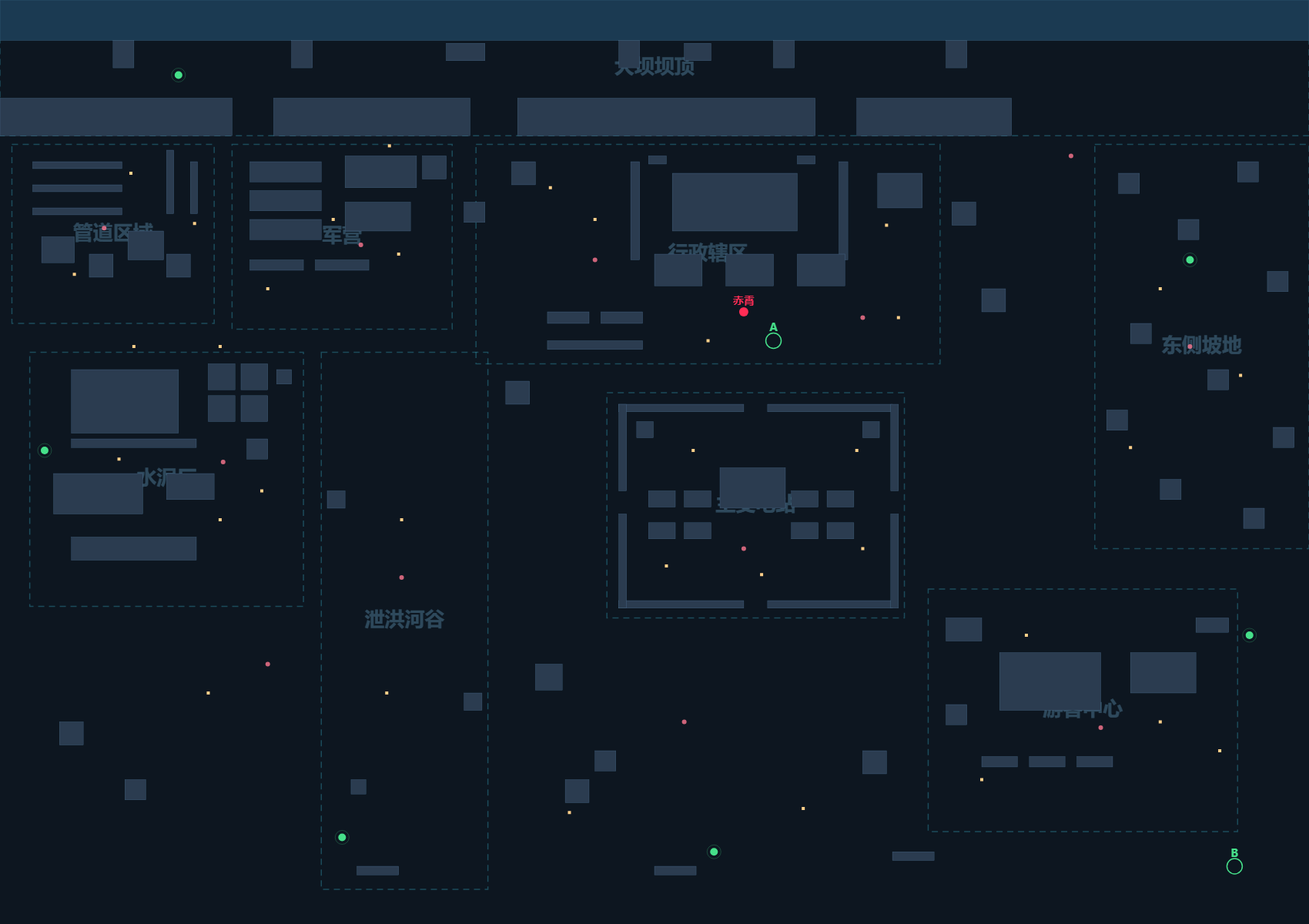
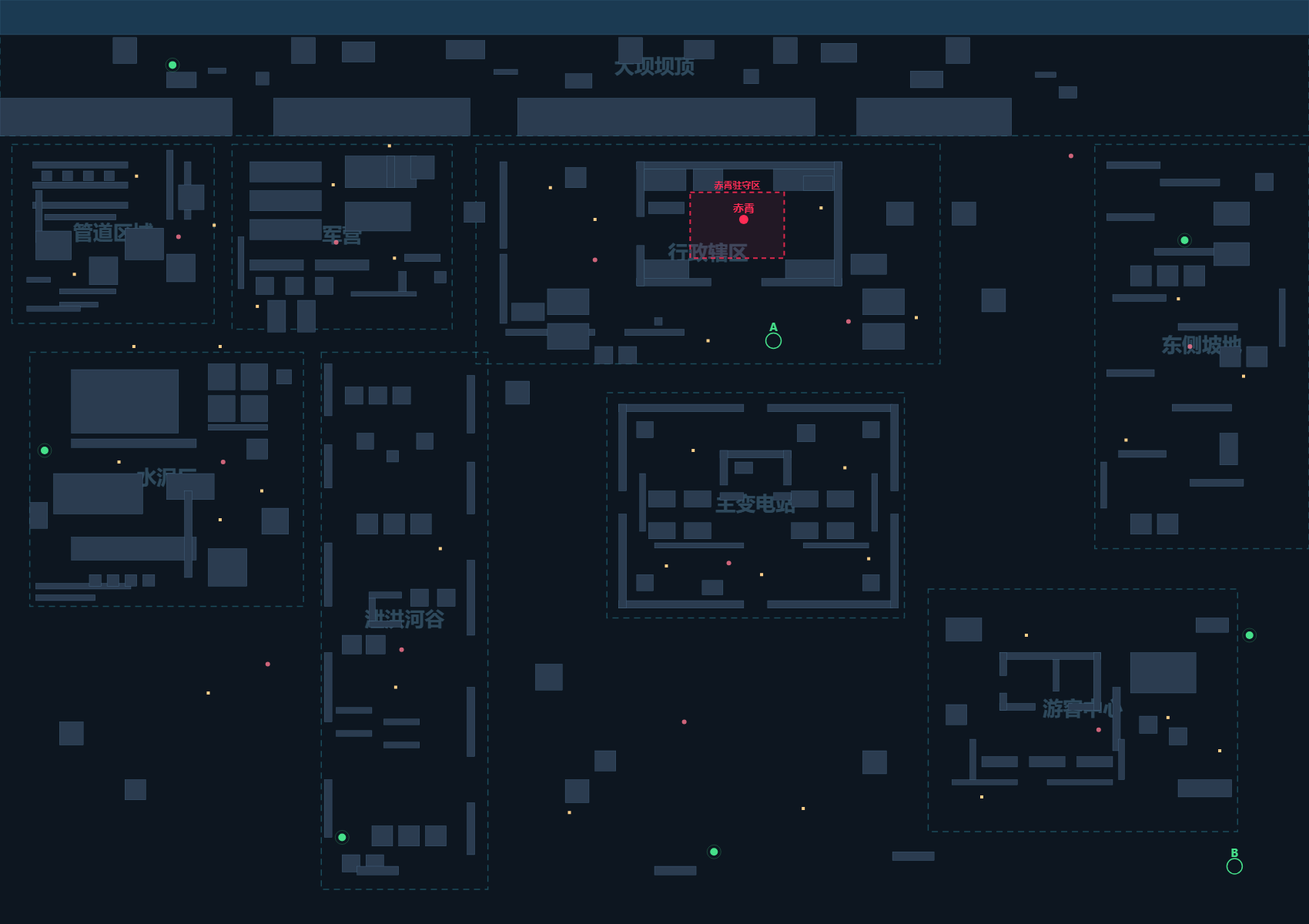
零号大坝：赤霄进驻行政楼大厅 + 各地区地形加密。①新地图字段 bossZone（≥140×140，normalizeMap 清洗/applyMapData/buildMapData）：BOSS 初始布点与增援波一律刷在驻守区内，移动硬锁区内（击退/翻滚推不出去），拴绳 home 也在区内——想打赤霄必须进楼；②行政楼改可进入围合建筑：外墙四面门洞（南中门170/西侧门100/东墙封死）、北侧三间办公室、南侧两间服务间、大厅西侧接待台与东侧隔间，大厅中央即赤霄驻守区(2320,666,316,228)，楼内驻 2 守卫；③九地区地形加密（障碍 120→237 块）：管道区加管墩/栈桥/储罐/管

diff --git a/index.html b/index.html
@@ -4766,6 +4766,7 @@ const G = {
   loiters: [],      // 乌鲁鲁的巡飞弹（含分裂出来的子炸弹）
   units: [],        // 地图里布置的敌人（兵种 + 驻地）
   bossSpawned: false, // 本局是否已有 BOSS（避免增援重复刷）
+  bossZone: null,     // BOSS 驻守区（地图字段）：有值时赤霄只在矩形内活动，增援也回这里
   bossBarBottom: false, // BOSS 血条是否临时挪到屏幕底部
   directorMarkT: 0,   // 安全总监标记干员位置的剩余秒数（>0 时全哈夫克共享你的位置）
   toasts: [],
@@ -5047,7 +5048,7 @@ const MAP_VERSION = 1;
    · 水泥厂（西）· 泄洪河谷（纵贯西南）· 主变电站（中央）· 游客中心（东南）· 东侧坡地
    —— 与 maps/zero-dam.json 完全一致，可在编辑器里导入后继续改
    ══════════════════════════════════════════════════════════ */
-const BUILTIN_MAPS = {'zero-dam': ({"format":"neonpurge-map","version":1,"name":"零号大坝·普通","w":4400,"h":3200,"spawns":[{"x":600,"y":260},{"x":150,"y":1560},{"x":1150,"y":2900},{"x":4000,"y":900},{"x":4200,"y":2200},{"x":2400,"y":2950}],"obstacles":[{"x":0,"y":0,"w":4400,"h":140},{"x":380,"y":140,"w":70,"h":95},{"x":980,"y":140,"w":70,"h":95},{"x":2080,"y":140,"w":70,"h":95},{"x":2600,"y":140,"w":70,"h":95},{"x":3180,"y":140,"w":70,"h":95},{"x":1500,"y":150,"w":130,"h":60},{"x":2300,"y":150,"w":90,"h":60},{"x":0,"y":340,"w":780,"h":130},{"x":920,"y":340,"w":660,"h":130},{"x":1740,"y":340,"w":1000,"h":130},{"x":2880,"y":340,"w":520,"h":130},{"x":110,"y":560,"w":300,"h":24},{"x":110,"y":640,"w":300,"h":24},{"x":110,"y":720,"w":300,"h":24},{"x":560,"y":520,"w":24,"h":220},{"x":640,"y":560,"w":24,"h":180},{"x":140,"y":820,"w":110,"h":90},{"x":430,"y":800,"w":120,"h":100},{"x":560,"y":880,"w":80,"h":80},{"x":300,"y":880,"w":80,"h":80},{"x":840,"y":560,"w":240,"h":70},{"x":840,"y":660,"w":240,"h":70},{"x":840,"y":760,"w":240,"h":70},{"x":1160,"y":540,"w":240,"h":110},{"x":1160,"y":700,"w":220,"h":100},{"x":840,"y":900,"w":180,"h":36},{"x":1060,"y":900,"w":180,"h":36},{"x":1420,"y":540,"w":80,"h":80},{"x":2260,"y":600,"w":420,"h":200},{"x":2120,"y":560,"w":30,"h":340},{"x":2820,"y":560,"w":30,"h":340},{"x":2180,"y":540,"w":60,"h":28},{"x":2680,"y":540,"w":60,"h":28},{"x":2200,"y":880,"w":160,"h":110},{"x":2440,"y":880,"w":160,"h":110},{"x":2680,"y":880,"w":160,"h":110},{"x":1840,"y":1080,"w":140,"h":40},{"x":2020,"y":1080,"w":140,"h":40},{"x":1720,"y":560,"w":80,"h":80},{"x":2950,"y":600,"w":150,"h":120},{"x":1840,"y":1180,"w":320,"h":30},{"x":240,"y":1280,"w":360,"h":220},{"x":700,"y":1260,"w":90,"h":90},{"x":810,"y":1260,"w":90,"h":90},{"x":700,"y":1370,"w":90,"h":90},{"x":810,"y":1370,"w":90,"h":90},{"x":240,"y":1520,"w":420,"h":30},{"x":180,"y":1640,"w":300,"h":140},{"x":560,"y":1640,"w":160,"h":90},{"x":240,"y":1860,"w":420,"h":80},{"x":830,"y":1520,"w":70,"h":70},{"x":930,"y":1280,"w":50,"h":50},{"x":1100,"y":1700,"w":60,"h":60},{"x":1560,"y":2400,"w":60,"h":60},{"x":1180,"y":2700,"w":50,"h":50},{"x":2080,"y":1400,"w":420,"h":26},{"x":2580,"y":1400,"w":420,"h":26},{"x":2080,"y":2080,"w":420,"h":26},{"x":2580,"y":2080,"w":420,"h":26},{"x":2080,"y":1400,"w":26,"h":300},{"x":2080,"y":1780,"w":26,"h":326},{"x":2994,"y":1400,"w":26,"h":300},{"x":2994,"y":1780,"w":26,"h":326},{"x":2420,"y":1620,"w":220,"h":140},{"x":2180,"y":1700,"w":90,"h":56},{"x":2300,"y":1700,"w":90,"h":56},{"x":2660,"y":1700,"w":90,"h":56},{"x":2780,"y":1700,"w":90,"h":56},{"x":2180,"y":1810,"w":90,"h":56},{"x":2300,"y":1810,"w":90,"h":56},{"x":2660,"y":1810,"w":90,"h":56},{"x":2780,"y":1810,"w":90,"h":56},{"x":2140,"y":1460,"w":56,"h":56},{"x":2900,"y":1460,"w":56,"h":56},{"x":3360,"y":2260,"w":340,"h":200},{"x":3800,"y":2260,"w":220,"h":140},{"x":3180,"y":2140,"w":120,"h":80},{"x":3300,"y":2620,"w":120,"h":36},{"x":3460,"y":2620,"w":120,"h":36},{"x":3620,"y":2620,"w":120,"h":36},{"x":4020,"y":2140,"w":110,"h":50},{"x":3180,"y":2440,"w":70,"h":70},{"x":3760,"y":600,"w":70,"h":70},{"x":3960,"y":760,"w":70,"h":70},{"x":4160,"y":560,"w":70,"h":70},{"x":4260,"y":940,"w":70,"h":70},{"x":3800,"y":1120,"w":70,"h":70},{"x":4060,"y":1280,"w":70,"h":70},{"x":4280,"y":1480,"w":70,"h":70},{"x":3720,"y":1420,"w":70,"h":70},{"x":3900,"y":1660,"w":70,"h":70},{"x":4180,"y":1760,"w":70,"h":70},{"x":1900,"y":2700,"w":80,"h":80},{"x":2900,"y":2600,"w":80,"h":80},{"x":200,"y":2500,"w":80,"h":80},{"x":420,"y":2700,"w":70,"h":70},{"x":1800,"y":2300,"w":90,"h":90},{"x":2000,"y":2600,"w":70,"h":70},{"x":1700,"y":1320,"w":80,"h":80},{"x":3200,"y":700,"w":80,"h":80},{"x":3300,"y":1000,"w":80,"h":80},{"x":1560,"y":700,"w":70,"h":70},{"x":1200,"y":3000,"w":140,"h":30},{"x":2200,"y":3000,"w":140,"h":30},{"x":3000,"y":2950,"w":140,"h":30}],"crates":[{"x":440,"y":600},{"x":654,"y":774},{"x":250,"y":950},{"x":1120,"y":760},{"x":1340,"y":880},{"x":1309,"y":505},{"x":900,"y":1000},{"x":2000,"y":760},{"x":2980,"y":780},{"x":2380,"y":1180},{"x":1850,"y":650},{"x":3020,"y":1100},{"x":450,"y":1200},{"x":740,"y":1200},{"x":400,"y":1590},{"x":740,"y":1800},{"x":880,"y":1700},{"x":1350,"y":1800},{"x":1300,"y":2400},{"x":2330,"y":1560},{"x":2560,"y":1990},{"x":2900,"y":1900},{"x":2240,"y":1960},{"x":2880,"y":1560},{"x":3450,"y":2200},{"x":3900,"y":2500},{"x":3300,"y":2700},{"x":4100,"y":2600},{"x":3900,"y":1000},{"x":4170,"y":1300},{"x":3800,"y":1550},{"x":1914,"y":2814},{"x":2700,"y":2800},{"x":700,"y":2400}],"extracts":[{"x":2600,"y":1180,"name":"A","mode":"hold"},{"x":4150,"y":3000,"name":"B","mode":"hold"}],"nests":[{"x":350,"y":790},{"x":1213,"y":848},{"x":2000,"y":900},{"x":750,"y":1600},{"x":1350,"y":2000},{"x":2500,"y":1900},{"x":3700,"y":2520},{"x":4000,"y":1200},{"x":2300,"y":2500},{"x":3600,"y":540},{"x":900,"y":2300},{"x":2900,"y":1100}],"units":[{"x":290,"y":697,"type":"runner"},{"x":580,"y":850,"type":"runner"},{"x":480,"y":700,"type":"shooter"},{"x":822,"y":745,"type":"runner"},{"x":1100,"y":850,"type":"shooter"},{"x":1400,"y":850,"type":"brute"},{"x":1450,"y":700,"type":"sniper"},{"x":979,"y":539,"type":"runner"},{"x":2200,"y":700,"type":"runner"},{"x":2900,"y":900,"type":"runner"},{"x":2400,"y":830,"type":"shooter"},{"x":2650,"y":980,"type":"shooter"},{"x":2350,"y":1050,"type":"brute"},{"x":2500,"y":1080,"type":"boss"},{"x":2050,"y":620,"type":"sniper"},{"x":2923,"y":681,"type":"runner"},{"x":350,"y":1600,"type":"runner"},{"x":630,"y":1440,"type":"runner"},{"x":560,"y":1200,"type":"shooter"},{"x":940,"y":1620,"type":"shooter"},{"x":320,"y":1180,"type":"runner"},{"x":1300,"y":1700,"type":"runner"},{"x":1250,"y":2300,"type":"shooter"},{"x":1400,"y":2800,"type":"rocket"},{"x":2300,"y":1500,"type":"runner"},{"x":2700,"y":2000,"type":"runner"},{"x":2600,"y":1550,"type":"shooter"},{"x":2890,"y":1660,"type":"shooter"},{"x":2350,"y":1950,"type":"brute"},{"x":2600,"y":1930,"type":"flamer"},{"x":2240,"y":1480,"type":"shooter"},{"x":3300,"y":2350,"type":"runner"},{"x":3900,"y":2700,"type":"runner"},{"x":3760,"y":2200,"type":"shooter"},{"x":3500,"y":2560,"type":"brute"},{"x":4100,"y":2250,"type":"sniper"},{"x":3850,"y":800,"type":"runner"},{"x":4000,"y":1400,"type":"runner"},{"x":4200,"y":1050,"type":"shooter"},{"x":4000,"y":1850,"type":"nader"},{"x":2000,"y":2900,"type":"runner"},{"x":2800,"y":2850,"type":"runner"},{"x":1600,"y":2950,"type":"shooter"},{"x":2400,"y":2600,"type":"brute"},{"x":1900,"y":2450,"type":"runner"},{"x":1200,"y":280,"type":"runner"},{"x":2350,"y":280,"type":"runner"},{"x":2900,"y":280,"type":"runner"},{"x":3450,"y":300,"type":"sniper"},{"x":150,"y":2000,"type":"runner"},{"x":1300,"y":1100,"type":"flamer"}],"squad":["runner","shooter","brute","runner","runner","shooter","brute","runner","runner","shooter","brute","runner","runner","runner","shooter","shooter","brute","runner","runner","runner","shooter","shooter","brute","boss","runner","runner","runner","sniper","sniper","rocket","rocket","flamer","flamer"],"regions":[{"name":"大坝坝顶","x":0,"y":0,"w":4400,"h":470},{"name":"管道区域","x":40,"y":500,"w":680,"h":620},{"name":"军营","x":780,"y":500,"w":740,"h":640},{"name":"行政辖区","x":1600,"y":500,"w":1560,"h":760},{"name":"水泥厂","x":100,"y":1220,"w":920,"h":880},{"name":"泄洪河谷","x":1080,"y":1220,"w":560,"h":1860},{"name":"主变电站","x":2040,"y":1360,"w":1000,"h":780},{"name":"游客中心","x":3120,"y":2040,"w":1040,"h":840},{"name":"东侧坡地","x":3680,"y":500,"w":720,"h":1400}]})};
+const BUILTIN_MAPS = {'zero-dam': ({"format":"neonpurge-map","version":1,"name":"零号大坝·普通","w":4400,"h":3200,"spawns":[{"x":580,"y":225},{"x":150,"y":1560},{"x":1150,"y":2900},{"x":3982,"y":832},{"x":4200,"y":2200},{"x":2400,"y":2950}],"obstacles":[{"x":0,"y":0,"w":4400,"h":120},{"x":380,"y":130,"w":80,"h":90},{"x":980,"y":130,"w":80,"h":90},{"x":2080,"y":130,"w":80,"h":90},{"x":2600,"y":130,"w":80,"h":90},{"x":3180,"y":130,"w":80,"h":90},{"x":1500,"y":140,"w":130,"h":64},{"x":2300,"y":140,"w":100,"h":64},{"x":1150,"y":145,"w":110,"h":70},{"x":2760,"y":150,"w":120,"h":66},{"x":560,"y":250,"w":100,"h":54},{"x":1900,"y":255,"w":90,"h":50},{"x":3060,"y":246,"w":110,"h":58},{"x":700,"y":236,"w":60,"h":18},{"x":1660,"y":240,"w":80,"h":18},{"x":3480,"y":250,"w":70,"h":18},{"x":2500,"y":240,"w":50,"h":50},{"x":860,"y":250,"w":44,"h":44},{"x":3560,"y":300,"w":60,"h":40},{"x":0,"y":340,"w":780,"h":130},{"x":920,"y":340,"w":660,"h":130},{"x":1740,"y":340,"w":1000,"h":130},{"x":2880,"y":340,"w":520,"h":130},{"x":110,"y":560,"w":320,"h":22},{"x":110,"y":630,"w":320,"h":22},{"x":110,"y":700,"w":320,"h":22},{"x":140,"y":592,"w":34,"h":34},{"x":210,"y":592,"w":34,"h":34},{"x":280,"y":592,"w":34,"h":34},{"x":350,"y":592,"w":34,"h":34},{"x":560,"y":520,"w":22,"h":240},{"x":620,"y":560,"w":22,"h":200},{"x":120,"y":660,"w":22,"h":180},{"x":150,"y":742,"w":240,"h":20},{"x":120,"y":800,"w":120,"h":100},{"x":420,"y":790,"w":130,"h":110},{"x":560,"y":880,"w":96,"h":96},{"x":300,"y":890,"w":96,"h":96},{"x":600,"y":640,"w":86,"h":86},{"x":200,"y":1000,"w":190,"h":18},{"x":200,"y":1046,"w":130,"h":18},{"x":90,"y":960,"w":80,"h":18},{"x":90,"y":1060,"w":180,"h":18},{"x":840,"y":560,"w":240,"h":70},{"x":840,"y":660,"w":240,"h":70},{"x":840,"y":760,"w":240,"h":70},{"x":1160,"y":540,"w":240,"h":110},{"x":1160,"y":700,"w":220,"h":100},{"x":1300,"y":540,"w":26,"h":110},{"x":840,"y":900,"w":180,"h":36},{"x":1060,"y":900,"w":180,"h":36},{"x":860,"y":960,"w":60,"h":60},{"x":960,"y":960,"w":60,"h":60},{"x":1060,"y":960,"w":60,"h":60},{"x":1380,"y":540,"w":80,"h":80},{"x":1360,"y":880,"w":120,"h":26},{"x":1340,"y":940,"w":26,"h":80},{"x":1460,"y":940,"w":40,"h":40},{"x":900,"y":1040,"w":60,"h":110},{"x":1000,"y":1040,"w":60,"h":110},{"x":800,"y":820,"w":20,"h":180},{"x":1180,"y":1010,"w":220,"h":16},{"x":2140,"y":560,"w":690,"h":26},{"x":2140,"y":964,"w":250,"h":26},{"x":2560,"y":964,"w":270,"h":26},{"x":2140,"y":560,"w":26,"h":190},{"x":2140,"y":850,"w":26,"h":140},{"x":2804,"y":560,"w":26,"h":430},{"x":2166,"y":586,"w":140,"h":74},{"x":2330,"y":586,"w":100,"h":74},{"x":2600,"y":586,"w":204,"h":74},{"x":2166,"y":900,"w":150,"h":64},{"x":2640,"y":900,"w":164,"h":64},{"x":2180,"y":700,"w":120,"h":40},{"x":2700,"y":610,"w":100,"h":50},{"x":1680,"y":560,"w":24,"h":300},{"x":1680,"y":880,"w":24,"h":240},{"x":1700,"y":1140,"w":300,"h":22},{"x":2100,"y":1140,"w":200,"h":22},{"x":1900,"y":580,"w":70,"h":70},{"x":1720,"y":1050,"w":110,"h":60},{"x":2200,"y":1100,"w":26,"h":26},{"x":2000,"y":1200,"w":60,"h":60},{"x":2080,"y":1200,"w":60,"h":60},{"x":1840,"y":1000,"w":140,"h":90},{"x":1840,"y":1120,"w":140,"h":90},{"x":2900,"y":1000,"w":140,"h":90},{"x":2900,"y":1120,"w":140,"h":90},{"x":2860,"y":880,"w":120,"h":70},{"x":2980,"y":700,"w":90,"h":80},{"x":240,"y":1280,"w":360,"h":220},{"x":700,"y":1260,"w":90,"h":90},{"x":810,"y":1260,"w":90,"h":90},{"x":700,"y":1370,"w":90,"h":90},{"x":810,"y":1370,"w":90,"h":90},{"x":700,"y":1470,"w":200,"h":20},{"x":240,"y":1520,"w":420,"h":30},{"x":180,"y":1640,"w":300,"h":140},{"x":560,"y":1640,"w":160,"h":90},{"x":240,"y":1860,"w":420,"h":80},{"x":830,"y":1520,"w":70,"h":70},{"x":930,"y":1280,"w":50,"h":50},{"x":620,"y":1700,"w":26,"h":300},{"x":120,"y":2020,"w":320,"h":20},{"x":120,"y":2060,"w":200,"h":20},{"x":700,"y":1900,"w":130,"h":130},{"x":880,"y":1760,"w":90,"h":90},{"x":100,"y":1740,"w":60,"h":90},{"x":300,"y":1990,"w":40,"h":40},{"x":360,"y":1990,"w":40,"h":40},{"x":420,"y":1990,"w":40,"h":40},{"x":480,"y":1990,"w":40,"h":40},{"x":1090,"y":1260,"w":26,"h":180},{"x":1090,"y":1540,"w":26,"h":150},{"x":1090,"y":1880,"w":26,"h":220},{"x":1090,"y":2260,"w":26,"h":240},{"x":1090,"y":2700,"w":26,"h":200},{"x":1570,"y":1300,"w":26,"h":200},{"x":1570,"y":1600,"w":26,"h":180},{"x":1570,"y":1940,"w":26,"h":260},{"x":1570,"y":2380,"w":26,"h":240},{"x":1570,"y":2780,"w":26,"h":180},{"x":1200,"y":1500,"w":56,"h":56},{"x":1400,"y":1500,"w":56,"h":56},{"x":1300,"y":1560,"w":40,"h":40},{"x":1240,"y":2050,"w":110,"h":22},{"x":1240,"y":2150,"w":110,"h":22},{"x":1240,"y":2072,"w":22,"h":78},{"x":1130,"y":2450,"w":120,"h":20},{"x":1290,"y":2490,"w":120,"h":20},{"x":1130,"y":2530,"w":120,"h":20},{"x":1290,"y":2570,"w":120,"h":20},{"x":1160,"y":1340,"w":60,"h":60},{"x":1240,"y":1340,"w":60,"h":60},{"x":1320,"y":1340,"w":60,"h":60},{"x":1200,"y":1780,"w":70,"h":70},{"x":1290,"y":1780,"w":70,"h":70},{"x":1380,"y":1780,"w":70,"h":70},{"x":1380,"y":2040,"w":60,"h":60},{"x":1470,"y":2040,"w":60,"h":60},{"x":1150,"y":2200,"w":65,"h":65},{"x":1230,"y":2200,"w":65,"h":65},{"x":1250,"y":2860,"w":70,"h":70},{"x":1340,"y":2860,"w":70,"h":70},{"x":1430,"y":2860,"w":70,"h":70},{"x":1150,"y":2960,"w":60,"h":60},{"x":1230,"y":2960,"w":60,"h":60},{"x":2080,"y":1400,"w":420,"h":26},{"x":2580,"y":1400,"w":420,"h":26},{"x":2080,"y":2080,"w":420,"h":26},{"x":2580,"y":2080,"w":420,"h":26},{"x":2080,"y":1400,"w":26,"h":300},{"x":2080,"y":1780,"w":26,"h":326},{"x":2994,"y":1400,"w":26,"h":300},{"x":2994,"y":1780,"w":26,"h":326},{"x":2420,"y":1560,"w":240,"h":26},{"x":2420,"y":1560,"w":26,"h":120},{"x":2634,"y":1560,"w":26,"h":120},{"x":2420,"y":1706,"w":80,"h":26},{"x":2600,"y":1706,"w":60,"h":26},{"x":2470,"y":1600,"w":60,"h":40},{"x":2180,"y":1700,"w":90,"h":56},{"x":2300,"y":1700,"w":90,"h":56},{"x":2660,"y":1700,"w":90,"h":56},{"x":2780,"y":1700,"w":90,"h":56},{"x":2180,"y":1810,"w":90,"h":56},{"x":2300,"y":1810,"w":90,"h":56},{"x":2660,"y":1810,"w":90,"h":56},{"x":2780,"y":1810,"w":90,"h":56},{"x":2150,"y":1640,"w":20,"h":200},{"x":2930,"y":1640,"w":20,"h":200},{"x":2200,"y":1880,"w":300,"h":18},{"x":2700,"y":1880,"w":220,"h":18},{"x":2140,"y":1460,"w":56,"h":56},{"x":2900,"y":1460,"w":56,"h":56},{"x":2140,"y":1990,"w":56,"h":56},{"x":2900,"y":1990,"w":56,"h":56},{"x":2680,"y":1470,"w":60,"h":60},{"x":2360,"y":2010,"w":70,"h":50},{"x":3360,"y":2260,"w":340,"h":24},{"x":3360,"y":2436,"w":120,"h":24},{"x":3590,"y":2436,"w":110,"h":24},{"x":3360,"y":2260,"w":24,"h":80},{"x":3360,"y":2400,"w":24,"h":60},{"x":3676,"y":2260,"w":24,"h":200},{"x":3540,"y":2284,"w":20,"h":110},{"x":3800,"y":2260,"w":220,"h":140},{"x":3180,"y":2140,"w":120,"h":80},{"x":3300,"y":2620,"w":120,"h":36},{"x":3460,"y":2620,"w":120,"h":36},{"x":3620,"y":2620,"w":120,"h":36},{"x":4020,"y":2140,"w":110,"h":50},{"x":3180,"y":2440,"w":70,"h":70},{"x":3830,"y":2480,"w":60,"h":60},{"x":3930,"y":2520,"w":60,"h":60},{"x":3200,"y":2700,"w":220,"h":18},{"x":3520,"y":2700,"w":220,"h":18},{"x":3740,"y":2380,"w":26,"h":220},{"x":3960,"y":2700,"w":180,"h":60},{"x":3260,"y":2560,"w":20,"h":140},{"x":3760,"y":2560,"w":20,"h":140},{"x":3720,"y":560,"w":180,"h":24},{"x":3900,"y":620,"w":200,"h":24},{"x":3720,"y":740,"w":160,"h":24},{"x":3880,"y":860,"w":220,"h":24},{"x":3740,"y":1020,"w":180,"h":24},{"x":3960,"y":1120,"w":200,"h":24},{"x":3720,"y":1280,"w":160,"h":24},{"x":3940,"y":1400,"w":200,"h":24},{"x":3760,"y":1560,"w":160,"h":24},{"x":4000,"y":1660,"w":180,"h":24},{"x":3800,"y":920,"w":70,"h":70},{"x":3890,"y":920,"w":70,"h":70},{"x":3980,"y":920,"w":70,"h":70},{"x":4100,"y":1200,"w":70,"h":70},{"x":4190,"y":1200,"w":70,"h":70},{"x":3800,"y":1780,"w":70,"h":70},{"x":3890,"y":1780,"w":70,"h":70},{"x":4080,"y":700,"w":120,"h":80},{"x":4080,"y":840,"w":120,"h":80},{"x":4220,"y":600,"w":60,"h":60},{"x":4100,"y":1500,"w":60,"h":110},{"x":4300,"y":1000,"w":20,"h":200},{"x":3700,"y":1600,"w":20,"h":160},{"x":1900,"y":2700,"w":80,"h":80},{"x":2900,"y":2600,"w":80,"h":80},{"x":200,"y":2500,"w":80,"h":80},{"x":420,"y":2700,"w":70,"h":70},{"x":1800,"y":2300,"w":90,"h":90},{"x":2000,"y":2600,"w":70,"h":70},{"x":1700,"y":1320,"w":80,"h":80},{"x":3200,"y":700,"w":80,"h":80},{"x":3300,"y":1000,"w":80,"h":80},{"x":1560,"y":700,"w":70,"h":70},{"x":1200,"y":3000,"w":140,"h":30},{"x":2200,"y":3000,"w":140,"h":30},{"x":3000,"y":2950,"w":140,"h":30}],"crates":[{"x":459,"y":610},{"x":720,"y":780},{"x":250,"y":950},{"x":1120,"y":640},{"x":1326,"y":894},{"x":1309,"y":505},{"x":865,"y":1061},{"x":2000,"y":760},{"x":2760,"y":720},{"x":2380,"y":1180},{"x":1850,"y":650},{"x":3080,"y":1100},{"x":450,"y":1200},{"x":740,"y":1200},{"x":400,"y":1600},{"x":740,"y":1800},{"x":880,"y":1700},{"x":1480,"y":1900},{"x":1330,"y":2380},{"x":2330,"y":1560},{"x":2560,"y":1990},{"x":2920,"y":1935},{"x":2240,"y":1960},{"x":2840,"y":1620},{"x":3450,"y":2200},{"x":3926,"y":2485},{"x":3300,"y":2760},{"x":4100,"y":2600},{"x":3961,"y":1035},{"x":4180,"y":1303},{"x":3785,"y":1524},{"x":1914,"y":2814},{"x":2700,"y":2800},{"x":700,"y":2400}],"extracts":[{"x":2600,"y":1180,"name":"A","mode":"hold"},{"x":4150,"y":3000,"name":"B","mode":"hold"}],"nests":[{"x":600,"y":820},{"x":1130,"y":839},{"x":2000,"y":900},{"x":750,"y":1600},{"x":1350,"y":2250},{"x":2450,"y":1950},{"x":3693,"y":2527},{"x":4000,"y":1200},{"x":2300,"y":2500},{"x":3600,"y":540},{"x":900,"y":2300},{"x":2852,"y":1113}],"units":[{"x":200,"y":940,"type":"runner"},{"x":500,"y":940,"type":"runner"},{"x":480,"y":700,"type":"shooter"},{"x":1110,"y":780,"type":"runner"},{"x":1270,"y":860,"type":"shooter"},{"x":1395,"y":841,"type":"brute"},{"x":1450,"y":700,"type":"sniper"},{"x":1110,"y":525,"type":"runner"},{"x":2700,"y":690,"type":"shooter"},{"x":2700,"y":800,"type":"runner"},{"x":2220,"y":820,"type":"runner"},{"x":2650,"y":1030,"type":"shooter"},{"x":2350,"y":1060,"type":"brute"},{"x":2500,"y":760,"type":"boss"},{"x":2050,"y":620,"type":"sniper"},{"x":3000,"y":660,"type":"runner"},{"x":350,"y":1600,"type":"runner"},{"x":630,"y":1440,"type":"runner"},{"x":560,"y":1200,"type":"shooter"},{"x":940,"y":1620,"type":"shooter"},{"x":320,"y":1180,"type":"runner"},{"x":1300,"y":1700,"type":"runner"},{"x":1250,"y":2300,"type":"shooter"},{"x":1400,"y":2800,"type":"rocket"},{"x":2300,"y":1500,"type":"runner"},{"x":2700,"y":2000,"type":"runner"},{"x":2500,"y":1500,"type":"shooter"},{"x":2600,"y":1640,"type":"shooter"},{"x":2350,"y":1950,"type":"brute"},{"x":2600,"y":1930,"type":"flamer"},{"x":2240,"y":1480,"type":"shooter"},{"x":3300,"y":2350,"type":"runner"},{"x":3900,"y":2700,"type":"runner"},{"x":3760,"y":2200,"type":"shooter"},{"x":3500,"y":2560,"type":"brute"},{"x":4100,"y":2250,"type":"sniper"},{"x":3850,"y":800,"type":"runner"},{"x":4000,"y":1460,"type":"runner"},{"x":4200,"y":1050,"type":"shooter"},{"x":4000,"y":1850,"type":"nader"},{"x":2000,"y":2900,"type":"runner"},{"x":2800,"y":2850,"type":"runner"},{"x":1630,"y":2950,"type":"shooter"},{"x":2400,"y":2600,"type":"brute"},{"x":1900,"y":2450,"type":"runner"},{"x":1200,"y":280,"type":"runner"},{"x":2350,"y":280,"type":"runner"},{"x":2900,"y":280,"type":"runner"},{"x":3450,"y":300,"type":"sniper"},{"x":140,"y":1997,"type":"runner"},{"x":1300,"y":1100,"type":"flamer"}],"squad":["runner","shooter","brute","runner","runner","shooter","brute","runner","runner","shooter","brute","runner","runner","runner","shooter","shooter","brute","runner","runner","runner","shooter","shooter","brute","boss","runner","runner","runner","sniper","sniper","rocket","rocket","flamer","flamer"],"regions":[{"name":"大坝坝顶","x":0,"y":0,"w":4400,"h":470},{"name":"管道区域","x":40,"y":500,"w":680,"h":620},{"name":"军营","x":780,"y":500,"w":740,"h":640},{"name":"行政辖区","x":1600,"y":500,"w":1560,"h":760},{"name":"水泥厂","x":100,"y":1220,"w":920,"h":880},{"name":"泄洪河谷","x":1080,"y":1220,"w":560,"h":1860},{"name":"主变电站","x":2040,"y":1360,"w":1000,"h":780},{"name":"游客中心","x":3120,"y":2040,"w":1040,"h":840},{"name":"东侧坡地","x":3680,"y":500,"w":720,"h":1400}],"bossZone":{"x":2320,"y":666,"w":316,"h":228}})};
 /* ── 机密变体：同一张零号大坝，敌人换一套数值、战利品整体加码 ──
    容器构成也重排：军械箱与保险柜占一半，便宜好搜的补给箱只剩三个。
    代价是翻找时间与动静都变长，收益是枪、配件与高品质货明显变多。 */
@@ -5226,6 +5227,16 @@ function normalizeMap(raw) {
       .every(v => isFinite(numOr(v, NaN)))) {
     map.coreZone = { x: raw.coreZone.x, y: raw.coreZone.y, w: raw.coreZone.w, h: raw.coreZone.h };
   }
+  /* BOSS 驻守区（零号大坝的行政楼大厅）：赤霄出生与拴绳都锁在这个矩形里 */
+  if (raw.bossZone && [raw.bossZone.x, raw.bossZone.y, raw.bossZone.w, raw.bossZone.h]
+      .every(v => isFinite(numOr(v, NaN)))) {
+    const z = {
+      x: Math.round(raw.bossZone.x), y: Math.round(raw.bossZone.y),
+      w: Math.round(raw.bossZone.w), h: Math.round(raw.bossZone.h),
+    };
+    if (z.w >= 140 && z.h >= 140 && z.x >= 0 && z.y >= 0 && z.x + z.w <= w && z.y + z.h <= h) map.bossZone = z;
+    else warnings.push('BOSS 驻守区太小或越界，已忽略');
+  }
   map.switches = [];
   for (const s of (Array.isArray(raw.switches) ? raw.switches : [])) {
     if (!s || !isFinite(s.x) || !isFinite(s.y)) continue;
@@ -5356,6 +5367,7 @@ function applyMapData(m) {
   });
   G.extMode = m.extMode === 'switch' ? 'switch' : 'hold';
   G.coreZone = m.coreZone || null;
+  G.bossZone = m.bossZone || null;
   G.switches = (m.switches || []).map(s => ({ x: s.x, y: s.y, pulled: false, phase: rand(0, TAU) }));
   G.emergencyOpen = G.extMode !== 'switch';   // 普通图撤离点常开；拉闸图要拉满总闸
   G.emergencyTimer = 0;
@@ -5421,6 +5433,7 @@ function buildMapData(name) {
     extracts: G.extracts.map(e => ({ x: Math.round(e.x), y: Math.round(e.y), name: e.name, mode: e.mode || 'hold' })),
     extMode: G.extMode || 'hold',
     coreZone: G.coreZone || undefined,
+    bossZone: G.bossZone || undefined,
     switches: (G.switches || []).map(s => ({ x: Math.round(s.x), y: Math.round(s.y) })),
     nests: G.nests.map(n => ({ x: Math.round(n.x), y: Math.round(n.y) })),
     regions: (G.regions || []).map(r => ({ x: Math.round(r.x), y: Math.round(r.y), w: Math.round(r.w), h: Math.round(r.h), name: r.name })),
@@ -7838,6 +7851,26 @@ function spawnEnemy(type, atX, atY, fac) {
   const pen = Math.min(6, (T.pen || 0) + (sec ? (isTop() ? (TOP.penAdd || 2) : (SECRET.penAdd || 1)) : 0));
   const armorHp = armorId ? Math.round(ARMORS[armorId].hp * ((sec && rawLv > armorLv) ? (SECRET.armorOverCapHp || 1) : 1)) : 0;
   let x = atX, y = atY, nest = null;
+
+  /* 赤霄的地盘：地图带 bossZone 时，初始布点与增援波一律刷在驻守区内（行政楼大厅） */
+  if (type === 'boss' && G.bossZone) {
+    const z = G.bossZone;
+    let bx = z.x + z.w / 2, by = z.y + z.h / 2, ok = false;
+    for (let t = 0; t < 60; t++) {
+      const rx = Math.max(T.r + 8, z.w / 2 - T.r - 8);
+      const ry = Math.max(T.r + 8, z.h / 2 - T.r - 8);
+      bx = clamp(z.x + z.w / 2 + rand(-rx, rx), z.x + T.r, z.x + z.w - T.r);
+      by = clamp(z.y + z.h / 2 + rand(-ry, ry), z.y + T.r, z.y + z.h - T.r);
+      if (hitsObstacle(bx, by, T.r + 6)) continue;
+      if (dist(bx, by, P.x, P.y) < 260) continue;   // 别贴脸刷出来
+      ok = true;
+      break;
+    }
+    if (!ok) {   // 兜底：区域正中（宁可压墙也不要跑到区外）
+      bx = z.x + z.w / 2; by = z.y + z.h / 2;
+    }
+    atX = bx; atY = by; x = bx; y = by;
+  }
 
   if (atX === undefined) {
     // 默认刷在固定点位附近，而不是玩家周围
@@ -12057,6 +12090,12 @@ function updateEnemies(dt) {
 
     // BOSS 有活动半径：被引走也会被拽回据点附近，绝不离开岗位
     if (e.type === 'boss') {
+      /* 带驻守区的地图（零号大坝行政楼）：硬锁在区域内，连击退/翻滚都推不出去 */
+      if (G.bossZone) {
+        const z = G.bossZone, m = e.r + 2;
+        e.x = clamp(e.x, z.x + m, Math.max(z.x + m, z.x + z.w - m));
+        e.y = clamp(e.y, z.y + m, Math.max(z.y + m, z.y + z.h - m));
+      }
       const hdx = e.x - e.homeX, hdy = e.y - e.homeY;
       const hd = Math.hypot(hdx, hdy);
       const maxLeash = ENEMY_TYPES.boss.leash + 150;

diff --git a/README.md b/README.md
@@ -607,6 +607,10 @@ python -m http.server 8080
 右上角小地图上常驻小字地名，玩家进入新地区时屏幕上方弹出「进入地区」横幅。
 非法条目（缺坐标 / 名字为空 / 面积太小 / 越界）导入时直接丢弃，不影响载入。
 
+`bossZone` 是可选的 BOSS 驻守区（≥140×140）：带上之后 BOSS 无论初始布点还是
+增援波都刷在这个矩形里，移动被硬锁在内（击退 / 翻滚也推不出去），拴绳目标也
+落在区内 —— 零号大坝用它把赤霄关在行政楼大厅，想打 BOSS 就得进楼。
+
 `type` 取值：`runner` / `shooter` / `brute` / `sniper` / `rocket` / `flamer` / `boss`。
 导入时会自动夹紧越界坐标、把压墙的物件挪开，并给出警告而不是直接拒绝。
 
@@ -647,7 +651,7 @@ war/
   跑起来 244，短暂快过走路，但只够跑 6~7 秒；体力管理成了走位的一部分 —— 跑空不是「慢一点」，是 2.2 秒的力竭窗口（124，比最快的小兵 134 还慢），所以「什么时候停下回体力」和「什么时候开枪」一样要算。开镜移速按枪重分级（AWM 66 / R93 73 / SR9 91 / AKM 96 / M870 102 / M4A1 102 / AK-12 102 / QBZ-191 102 / 野牛 106 / QBZ-95 106 / QBZ-192 109 / 93R 129 / G17 132 / G18 142），最重的狙击枪开镜仍慢于小兵，需要架枪位置而不是边跑边打。
 - **相机缩放**：`ZOOM = 0.85` —— 镜头拉远，一屏装下 1/0.85 ≈ 1.18 倍的世界，屏幕上的位移整体降 15%（角色 32px → 27px，4400×3200 的地图在 1366 窗口下约 2.7 屏宽）。世界内的所有比例（射程、弹速、AI 的 keep 距离、技能米数）一个都不动，所以它只改观感、不改平衡；改这一个常量就能回退。
 - **地图扩建**：零号大坝从 3400×2400 扩到 **4400×3200**（面积 +72%）。老区（左上 3400×2400）一个实体都没动；右侧新增一条南北主街 + 四间带门仓库，下方新增「三横两带」的集装箱货场，**撤离点 B 挪到新区东南角** —— 想撤就得往里走。守军 33 → 51、箱子 20 → 34、巢穴 8 → 12，新增实体全部过了「不与墙重叠 + 从出生点可达」两项校验。
-- **地区重规划**：参照《三角洲行动》零号大坝把全图重排成九个地区 —— 北缘**大坝坝顶**（闸门塔 + 三处过坝口不变），西北**管道区域**（输水管阵列 / 泵房 / 储油罐）、**军营**（三排营房 / 食堂 / 军械库），坝体正下方**行政辖区**（围合庭院 + 主楼 + 三座南翼楼，撤离点 A 在坝下广场、赤霄驻广场居中），西面**水泥厂**（主厂房 / 四筒仓 / 传送带 / 装车台），**泄洪河谷**纵贯西南（全线可通行的行洪通道，南口有出生点），中央**主变电站**（围栏留四门 + 主控楼 + 两排变压器），东南**游客中心**（主展厅 / 观景池 / 停车场，撤离点 B 仍在东南角），东侧乱石**坡地**。旧「集装箱堆场」与东部大围场拆除，物资集中进各地区；生成器 `.workbuddy/gen_zero_dam.js` 自动做压墙 / 过近 / 连通性三项校验。
+- **地区重规划**：参照《三角洲行动》零号大坝把全图重排成九个地区 —— 北缘**大坝坝顶**（闸门塔 + 三处过坝口不变），西北**管道区域**（输水管阵列 / 泵房 / 储油罐）、**军营**（三排营房 / 食堂 / 军械库），坝体正下方**行政辖区**（围合庭院 + 主楼 + 三座南翼楼，撤离点 A 在坝下广场、赤霄常驻大厅），西面**水泥厂**（主厂房 / 四筒仓 / 传送带 / 装车台 / 料仓 / 轨道），**泄洪河谷**纵贯西南（两岸堤墙留过河缺口，河床有断桥桥墩 / 涵洞 / 排水阶梯 / 巨石群，南口有出生点），中央**主变电站**（围栏留四门 + 可进入的主控楼 + 两排变压器 + 防火墙 / 电缆沟 / 构架塔），东南**游客中心**（可进入的主展厅 + 纪念品店 + 停车场 + 连廊，撤离点 B 仍在东南角），东侧乱石**坡地**（盘山路挡墙 + 巨石群 + 岩缝）。旧「集装箱堆场」与东部大围场拆除，物资集中进各地区；全图 237 块障碍，各地区都过了生成器的**复杂度校验**（块数 ≥16 且覆盖率适中，只有坝顶长廊与河谷主通道保持开阔）。生成器 `.workbuddy/gen_zero_dam.js` 自动做压墙 / 过近 / 连通性 / BOSS 驻守区四项校验。
 - **方向权重**：敌人 AI 的方向系数（盾兵侧移 0.7、机枪兵 0.5、狙击兵 0.38 等）会真实生效，不再被向量归一化抹平。
 - **战斗节奏**：普通图小兵 34 血，M4A1 两发即倒，遭遇战以「抢先手」为主；机密图拉到 68 血，才有对枪过程。
 - **增援**：普通图首波 90 秒、间隔递减到 30 秒；机密图首波 60 秒、间隔递减到 28 秒。增援只提升生命值（每波 +16%），不提升移速与反应。
